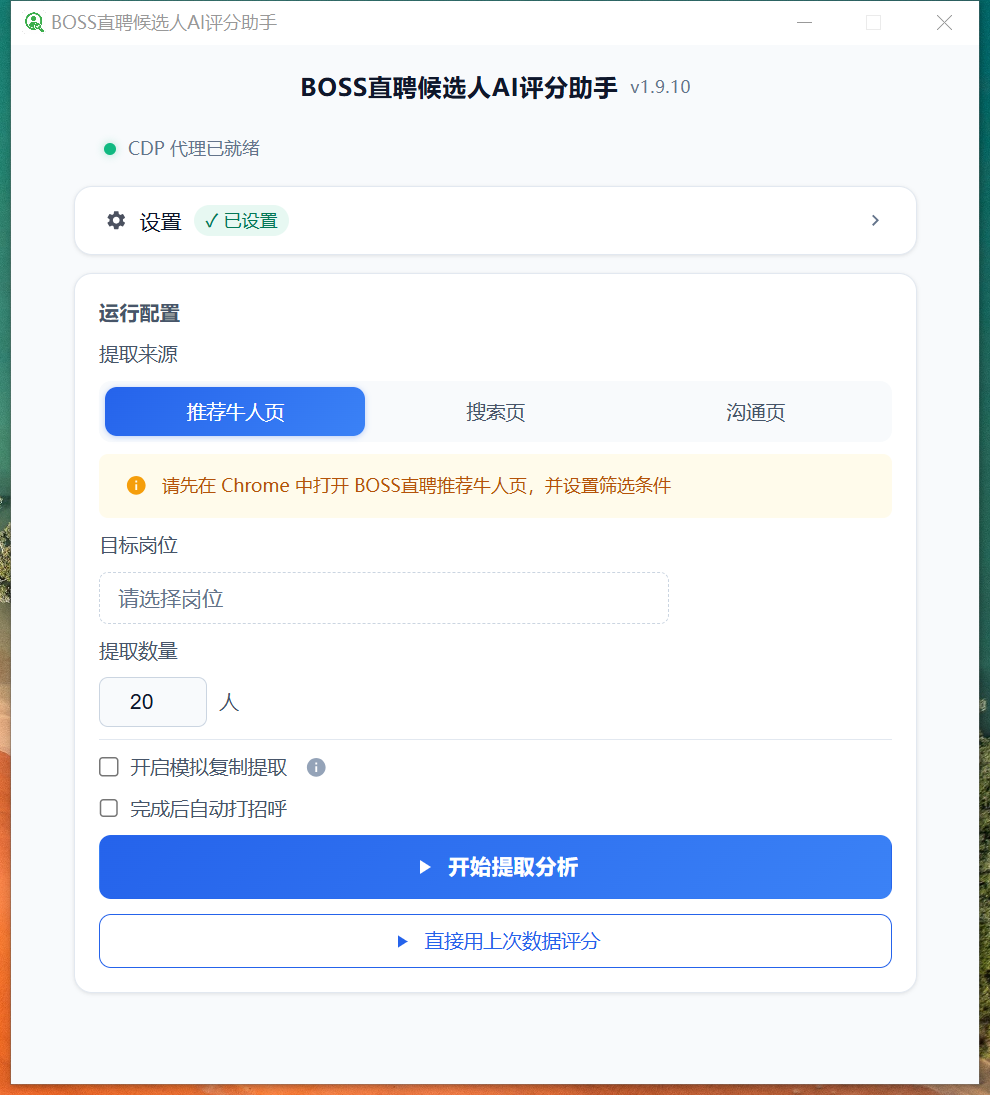
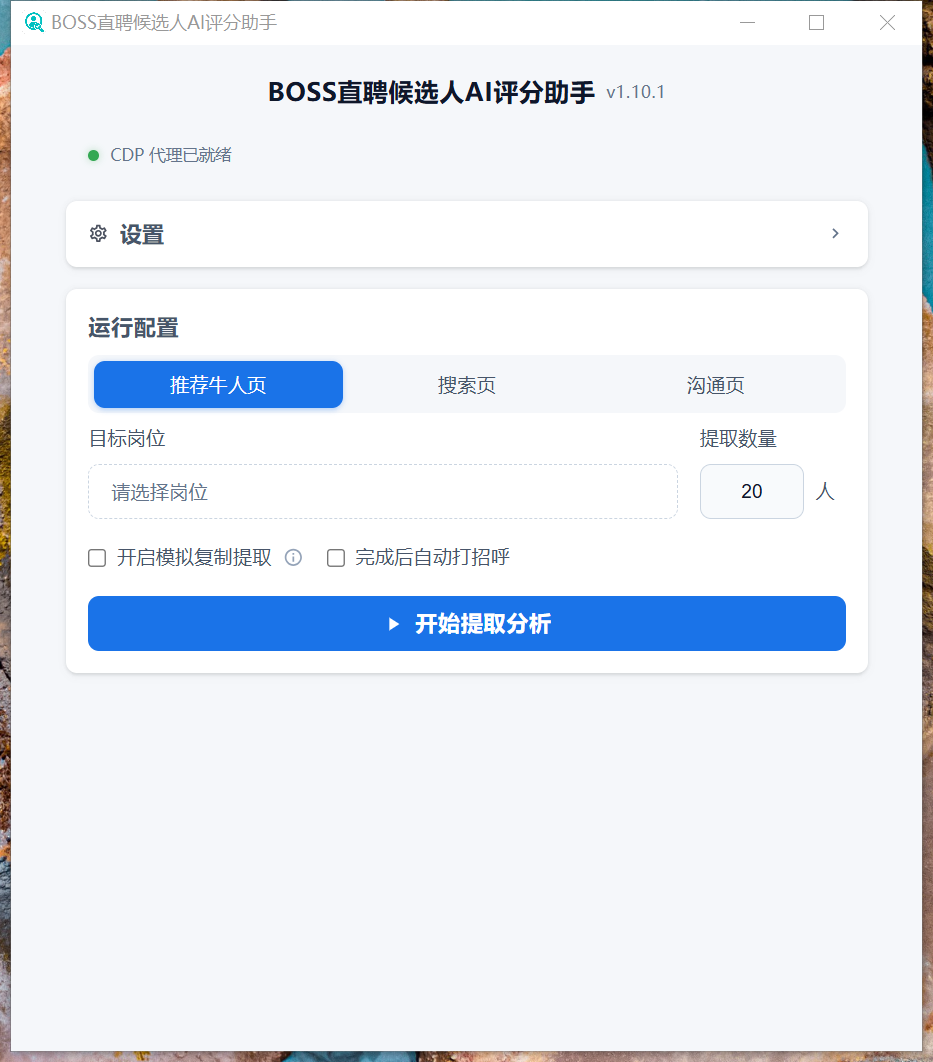
v1.10.2：页面底色调浅一档、模型名称示例改为 gpt-5.6-…
- 页面底色（--bg-page）由 #f5f7fa 调浅到 #f8fafc，界面更清爽
- 模型名称输入框提示语由 gpt5.6-… 改为 gpt-5.6-…
- RELEASE_NOTES 新增 9月8日 v1.10.2 条目

diff --git a/electron/renderer/tokens.css b/electron/renderer/tokens.css
@@ -14,7 +14,7 @@
 
   /* 语义色：红黄绿蓝取 Google 产品色（红 #EA4335 / 黄 #FBBC05 / 绿 #34A853 / 蓝 #4285F4），
      各配一套浅底/描边/深字，保证白底小字对比度达标；accent 仍是 Google 蓝 #1A73E8 */
-  --bg-page: #f5f7fa;             /* 页面底色：卡片去描边后靠底色衬出白块，勿过深 */
+  --bg-page: #f8fafc;             /* 页面底色：卡片去描边后靠底色衬出白块，勿过深（较旧版又浅一档） */
   --bg-card: #ffffff;
   --bg-input: #f8fafc;
   --bg-subtle: #f1f5f9;

diff --git a/electron/renderer/index.html b/electron/renderer/index.html
@@ -79,7 +79,7 @@
           </div>
           <div class="field-group">
             <label class="field-label" for="api-model">模型名称</label>
-            <input type="text" id="api-model" class="input-text" placeholder="gpt5.6-…">
+            <input type="text" id="api-model" class="input-text" placeholder="gpt-5.6-…">
           </div>
           <div class="field-group">
             <label class="field-label" for="email-prefix">邮件通知（可选）</label>

diff --git a/RELEASE_NOTES.md b/RELEASE_NOTES.md
@@ -1,5 +1,13 @@
 ## 更新内容（9月8日）
 
+### v1.10.2 更新内容
+
+**界面更清爽一点**
+- 页面底色（卡片之间露出的浅灰）再调浅一档，整体更亮、更干净
+
+**模型名称填写示例改清楚**
+- 模型名称输入框的提示语改为 `gpt-5.6-…`，一眼知道大概填什么样的模型名
+
 ### v1.10.1 更新内容
 
 **弹窗来回切换不再闪**
